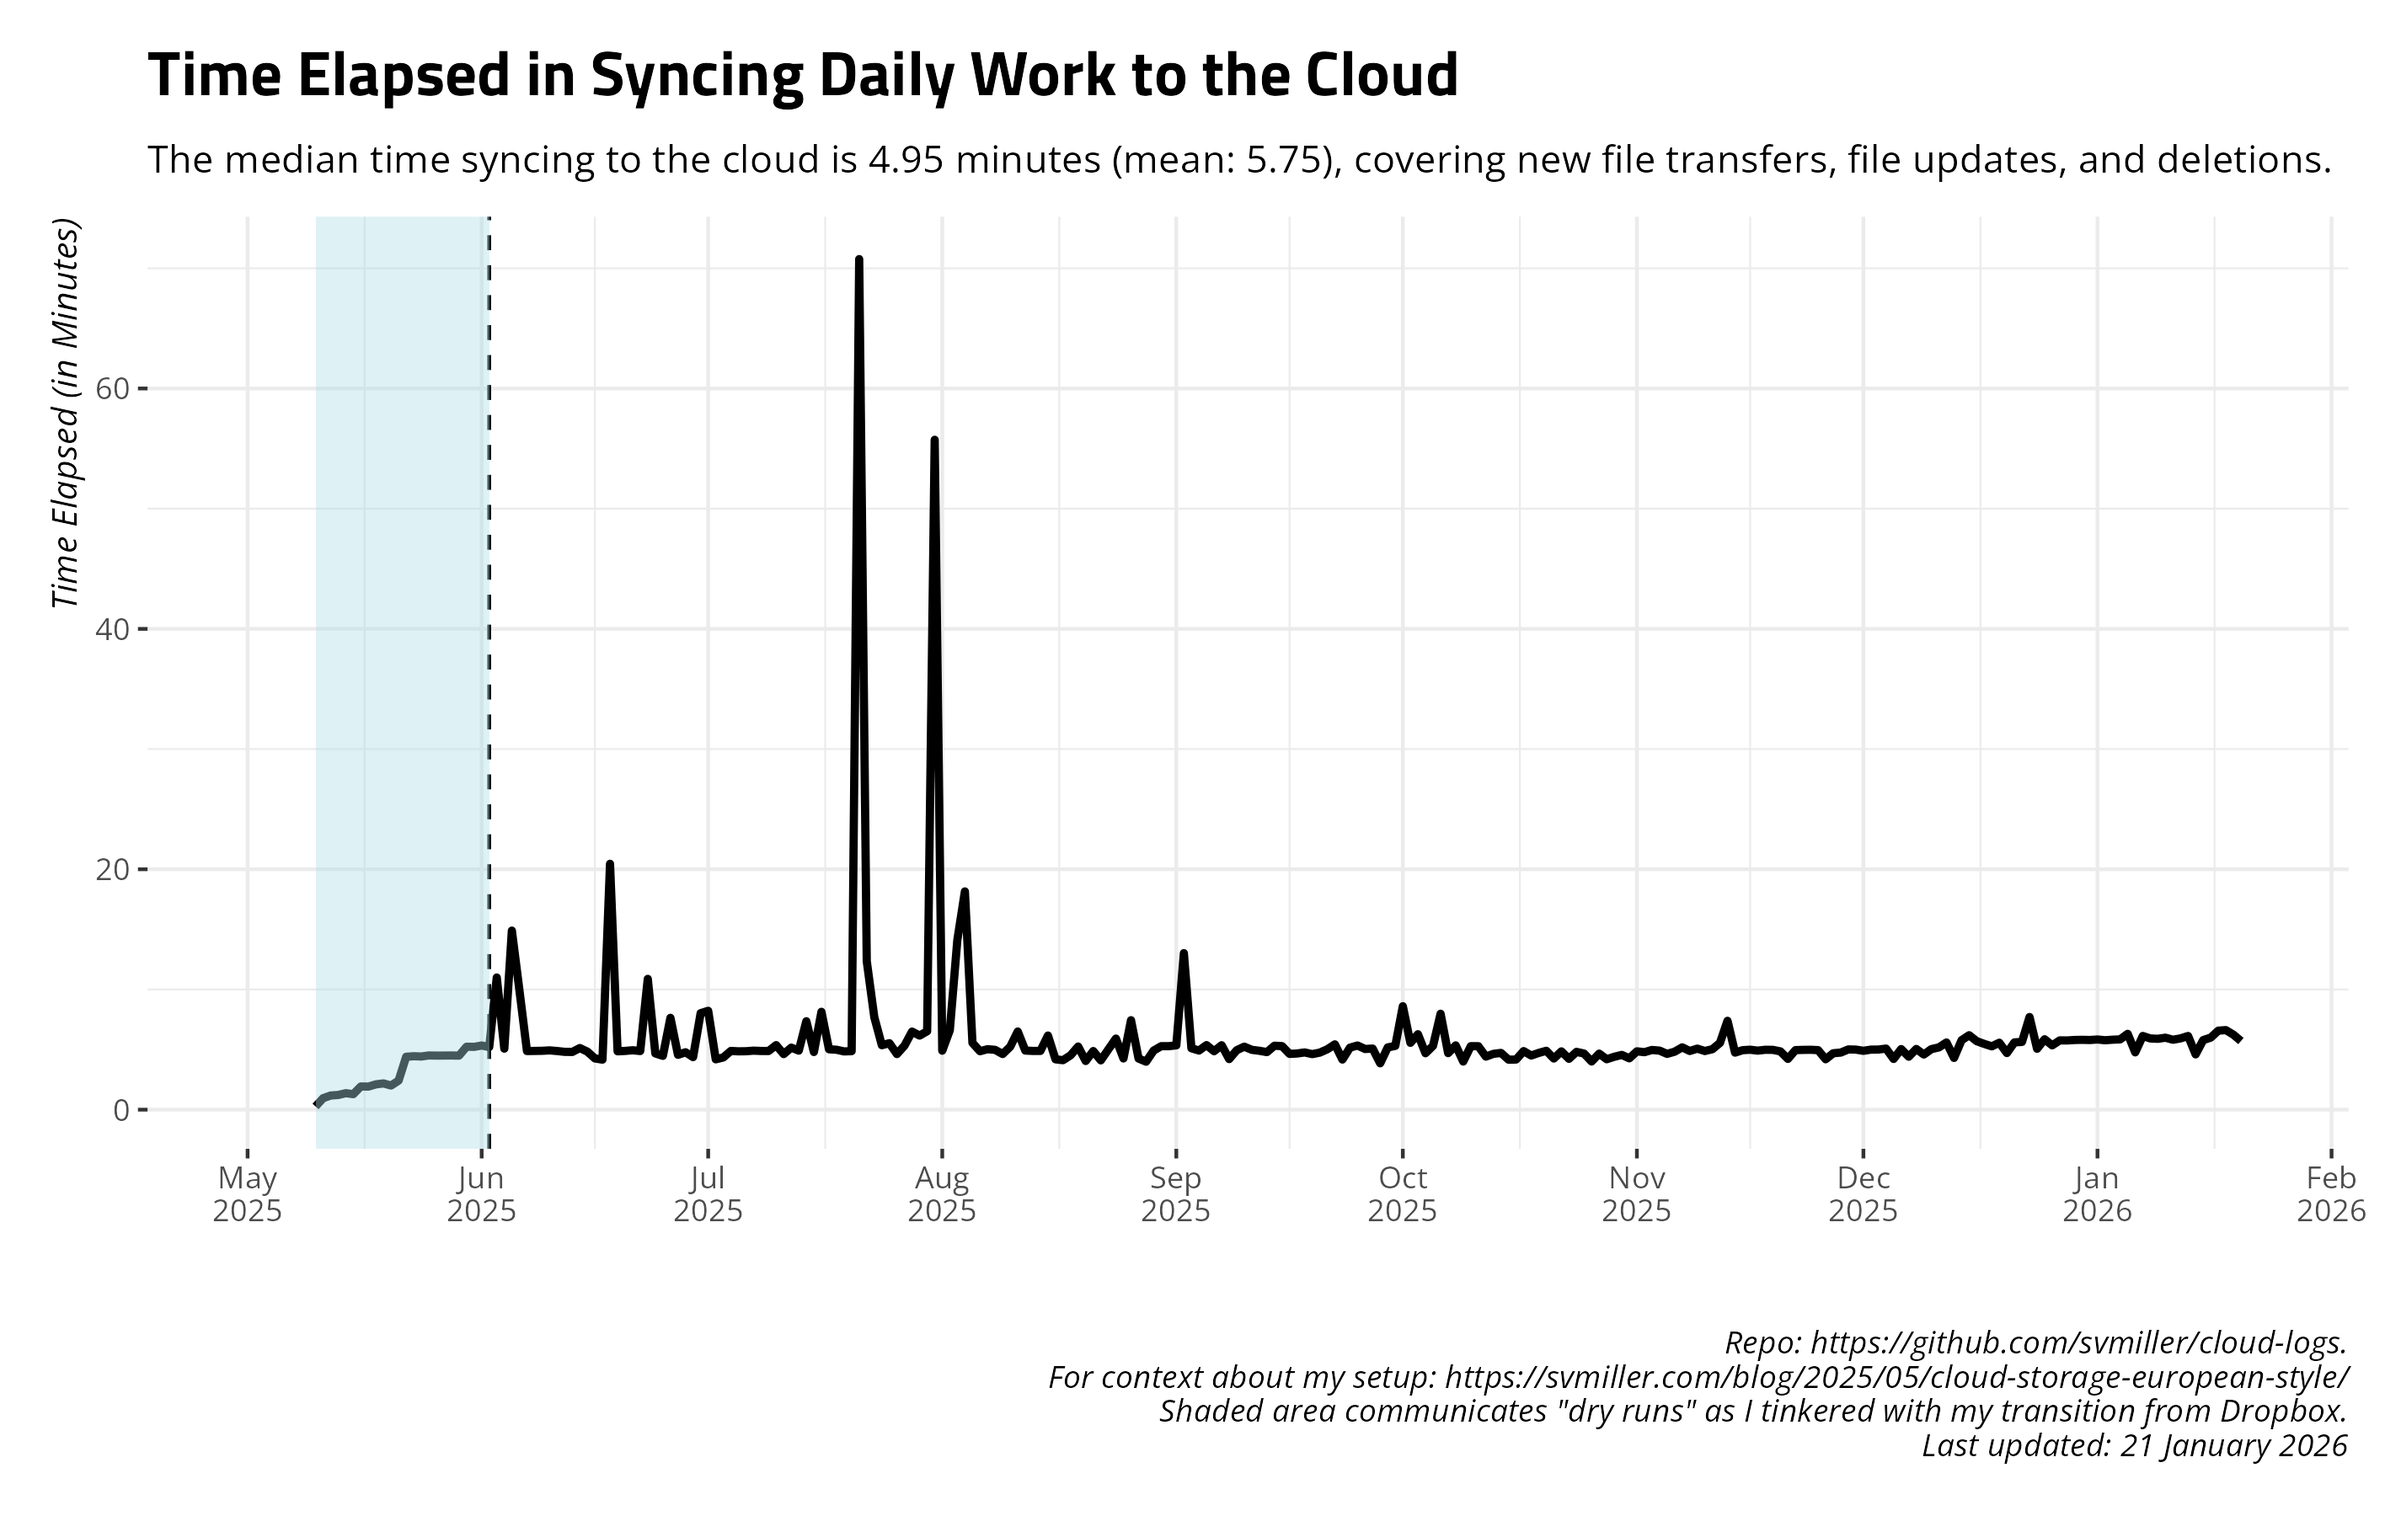
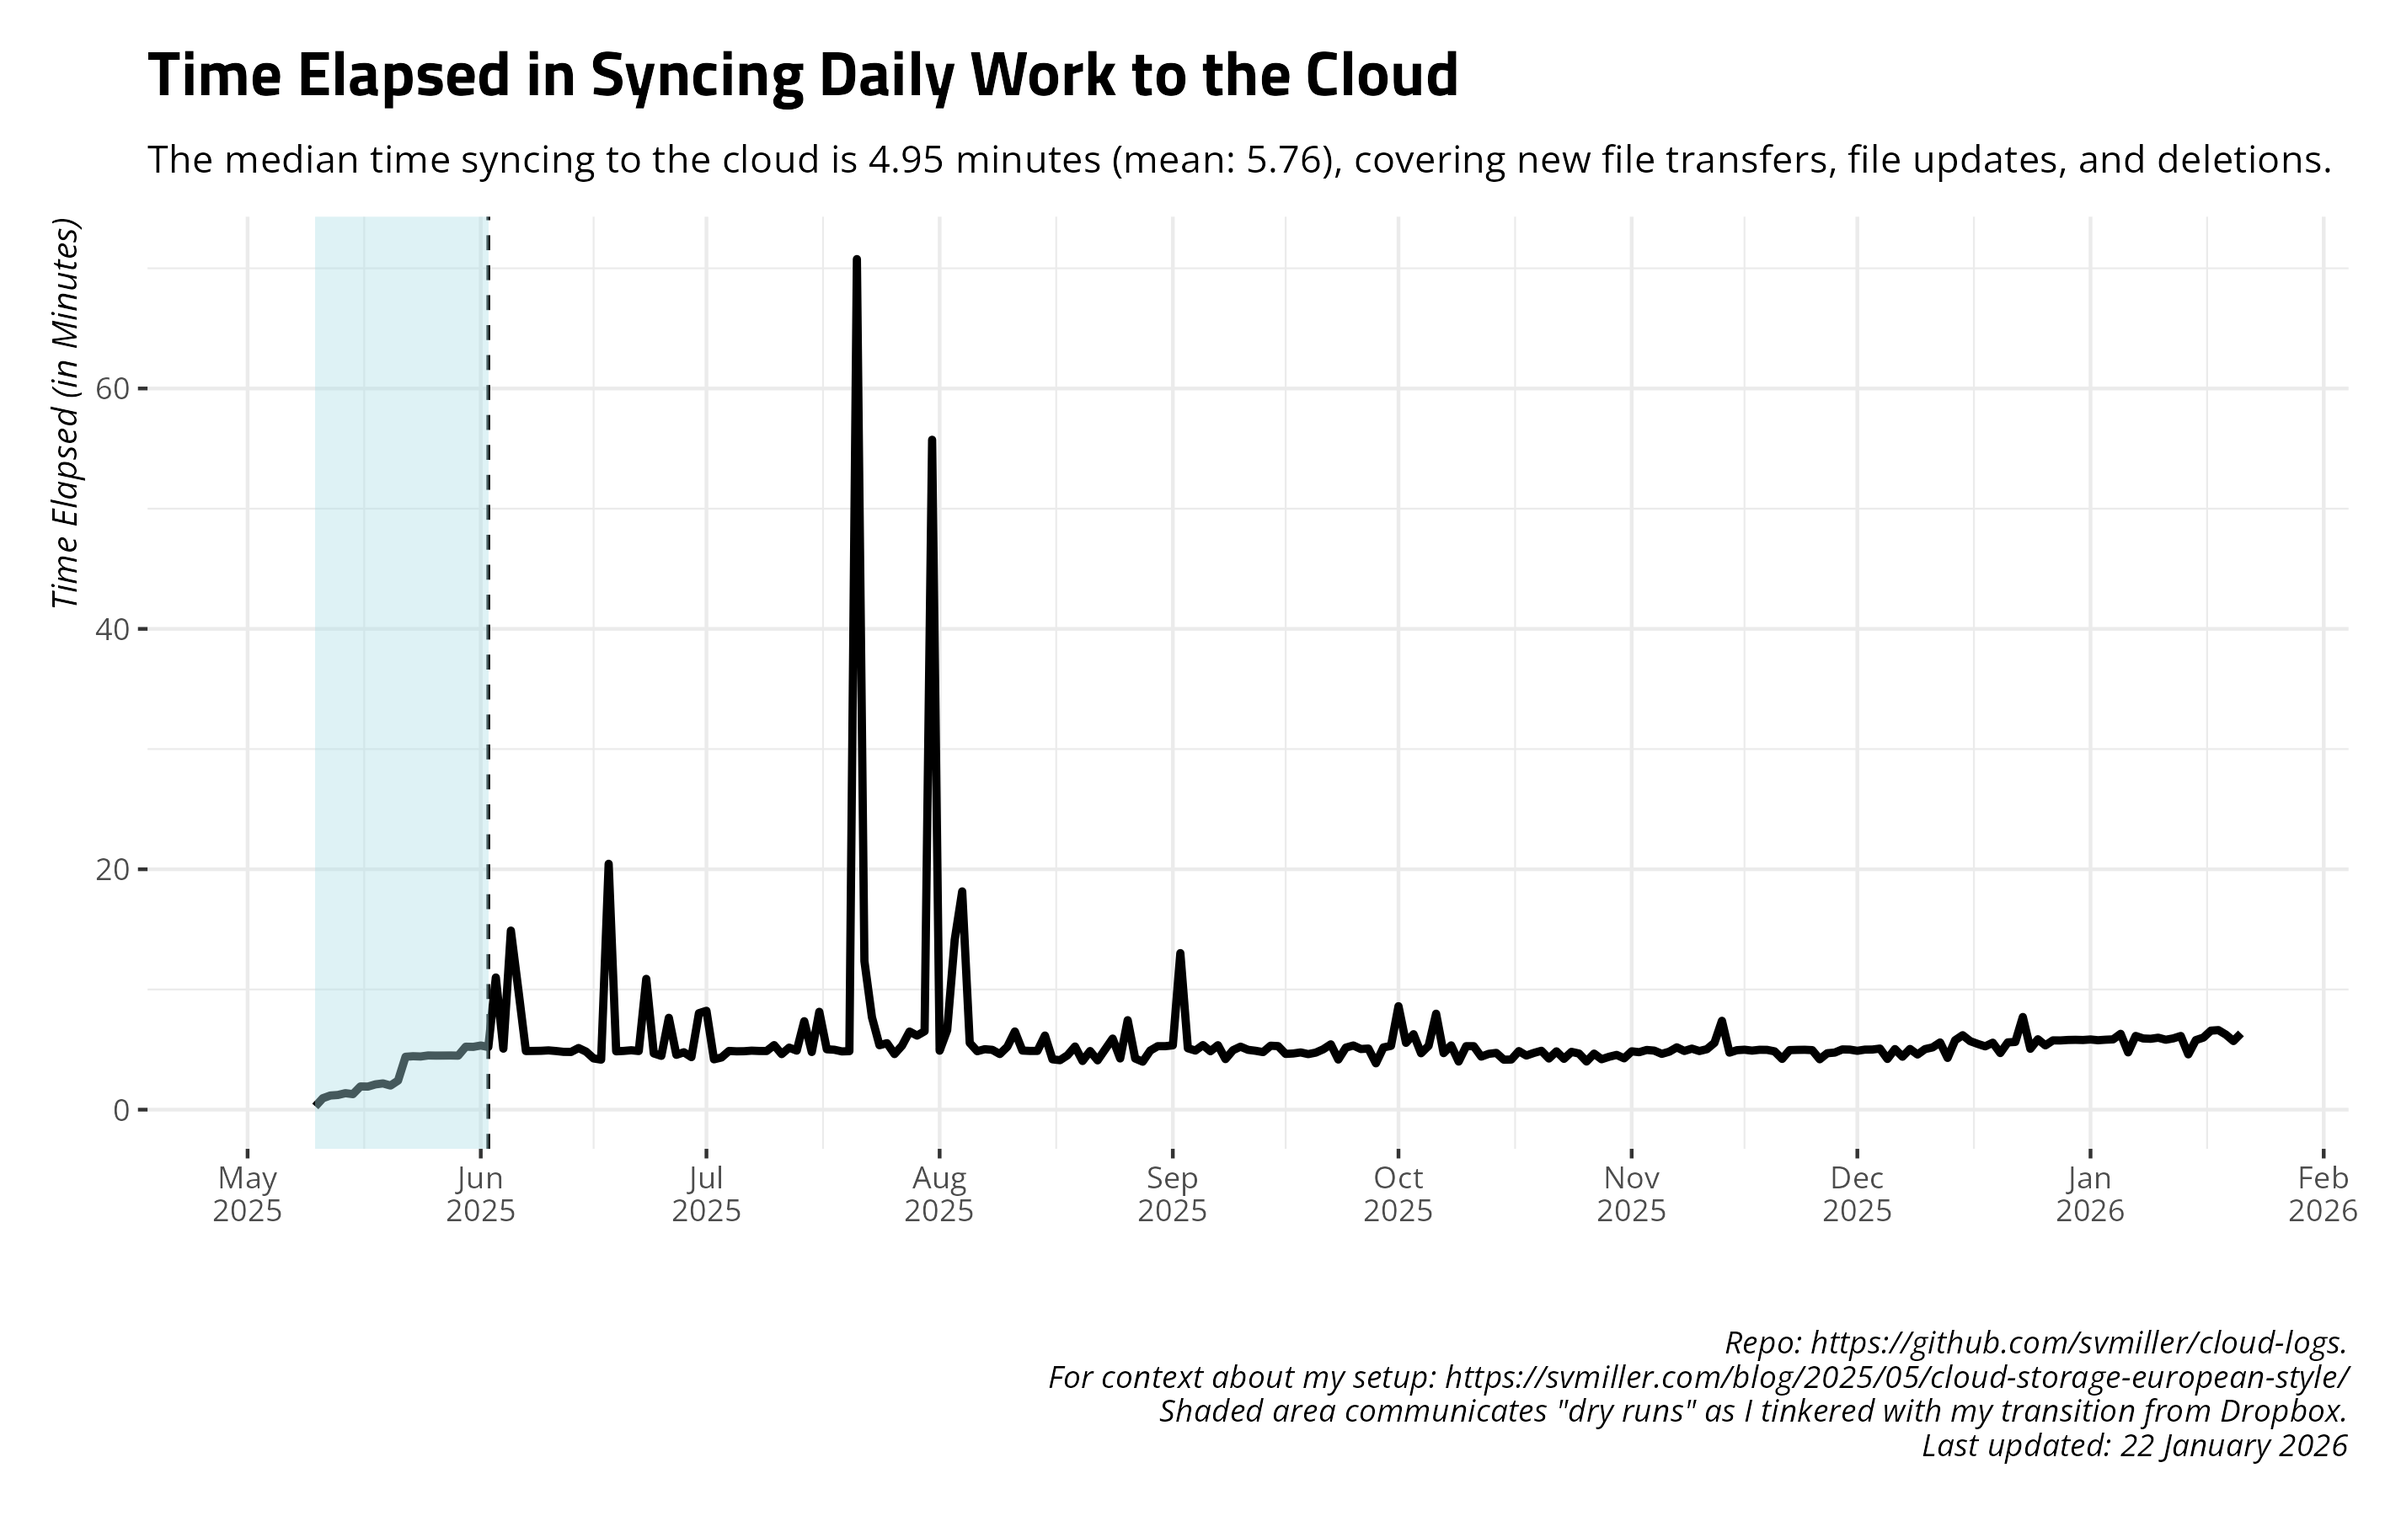
Date: 2026-01-22 09:00:21. Hi mom!

diff --git a/README.md b/README.md
@@ -27,17 +27,17 @@ and uploads to Github.
     #> # A tibble: 14 × 4
     #>    date       ftransfer stransfer   elapsed
     #>    <date>         <dbl> <chr>       <chr>  
-    #>  1 2026-01-07        13 1.440 MiB   6m7.9s 
-    #>  2 2026-01-08         0 <NA>        5m55.4s
-    #>  3 2026-01-09        76 3.544 MiB   5m53.8s
-    #>  4 2026-01-10        27 11.354 MiB  5m59.2s
-    #>  5 2026-01-11         0 <NA>        5m49.0s
-    #>  6 2026-01-12        52 2.182 MiB   5m55.8s
-    #>  7 2026-01-13        77 818.499 KiB 6m7.7s 
-    #>  8 2026-01-14        67 54.182 MiB  4m36.0s
-    #>  9 2026-01-15        24 1.058 MiB   5m47.3s
-    #> 10 2026-01-16         0 <NA>        5m59.7s
-    #> 11 2026-01-17         0 <NA>        6m34.4s
-    #> 12 2026-01-18         0 <NA>        6m37.1s
-    #> 13 2026-01-19        22 306.049 KiB 6m14.4s
-    #> 14 2026-01-20         8 8.384 KiB   5m42.6s
+    #>  1 2026-01-08         0 <NA>        5m55.4s
+    #>  2 2026-01-09        76 3.544 MiB   5m53.8s
+    #>  3 2026-01-10        27 11.354 MiB  5m59.2s
+    #>  4 2026-01-11         0 <NA>        5m49.0s
+    #>  5 2026-01-12        52 2.182 MiB   5m55.8s
+    #>  6 2026-01-13        77 818.499 KiB 6m7.7s 
+    #>  7 2026-01-14        67 54.182 MiB  4m36.0s
+    #>  8 2026-01-15        24 1.058 MiB   5m47.3s
+    #>  9 2026-01-16         0 <NA>        5m59.7s
+    #> 10 2026-01-17         0 <NA>        6m34.4s
+    #> 11 2026-01-18         0 <NA>        6m37.1s
+    #> 12 2026-01-19        22 306.049 KiB 6m14.4s
+    #> 13 2026-01-20         8 8.384 KiB   5m42.6s
+    #> 14 2026-01-21         0 <NA>        6m20.7s
